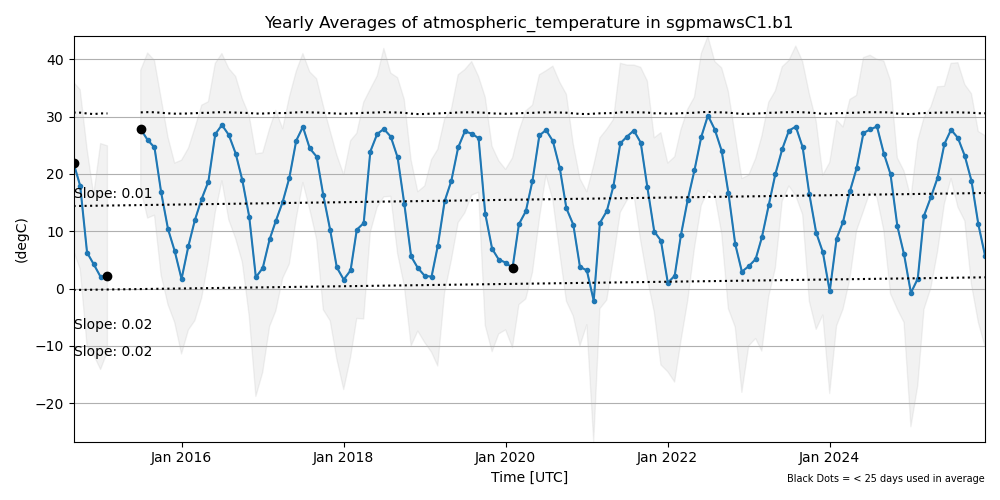
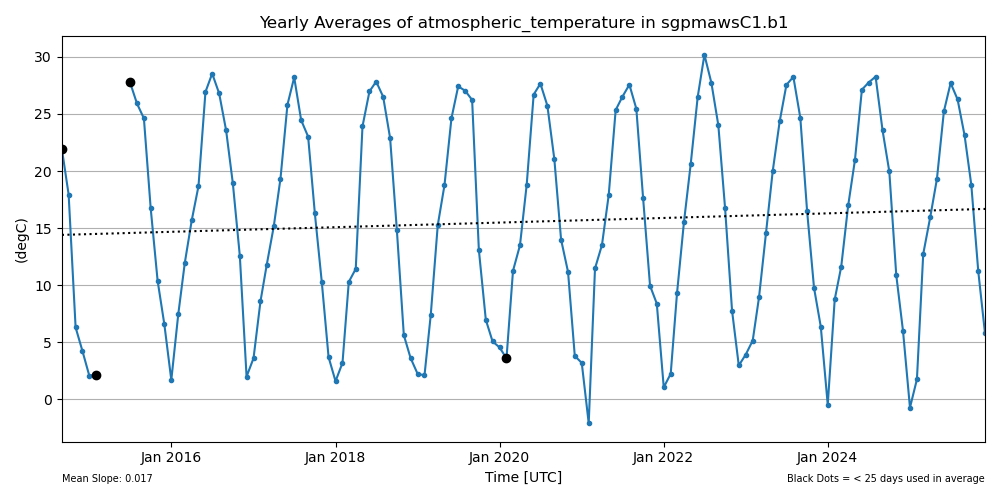
ENH: New plots

diff --git a/plot_climatology.py b/plot_climatology.py
@@ -20,9 +20,9 @@ import scipy
 ds_dict = {
     #'sgpceil10mC1.b1': {'variables': ['first_cbh'], 'averaging': ['YE', 'M'], 'units': ['m']},
     #'nsaceilC1.b1': {'variables': ['first_cbh'], 'averaging': ['YE', 'ME'], 'units': ['m']},
-    'nsametC1.b1': {'variables': ['temp_mean', 'rh_mean'], 'averaging': ['YE', 'ME'], 'units': ['degC', '%']},
-    'nsamawsC1.b1': {'variables': ['atmospheric_temperature', 'atmospheric_relative_humidity'], 'averaging': ['YE', 'ME'], 'units': ['degC', '%']},
-    'nsa60noaacrnX1.b1': {'variables': ['temperature'], 'averaging': ['YE', 'ME'], 'units': ['degC']},
+    #'nsametC1.b1': {'variables': ['temp_mean', 'rh_mean'], 'averaging': ['YE', 'ME'], 'units': ['degC', '%']},
+    #'nsamawsC1.b1': {'variables': ['atmospheric_temperature', 'atmospheric_relative_humidity'], 'averaging': ['YE', 'ME'], 'units': ['degC', '%']},
+    'nsa60noaacrnX1.b1': {'variables': ['temperature', 'precipitation'], 'averaging': ['YE', 'ME'], 'units': ['degC', 'mm']},
     'sgpmetE13.b1': {'variables': ['temp_mean', 'rh_mean'], 'averaging': ['YE', 'ME'], 'units': ['degC', '%']},
     'sgpmawsC1.b1': {'variables': ['atmospheric_temperature', 'atmospheric_relative_humidity'], 'averaging': ['YE', 'ME'], 'units': ['degC', '%']},
     'enametC1.b1': {'variables': ['temp_mean', 'rh_mean'], 'averaging': ['YE', 'ME'], 'units': ['degC', '%']},

diff --git a/arm_climatology.py b/arm_climatology.py
@@ -104,7 +104,7 @@ ds_dict = {
         #'sgpmetE40.b1': {'variables': ['temp_mean', 'rh_mean'], 'averaging': ['YE', 'M']},
         #'sgpmetE41.b1': {'variables': ['temp_mean', 'rh_mean'], 'averaging': ['YE', 'M']},
 
-        #'nsa60noaacrnX1.b1': {'variables': ['temperature', 'precipitation'], 'averaging': ['YE', 'ME']},
+        'nsa60noaacrnX1.b1': {'variables': ['temperature', 'precipitation'], 'averaging': ['YE', 'ME']},
         'nsametC1.b1': {'variables': ['temp_mean', 'rh_mean'], 'averaging': ['YE', 'ME']},
         #'nsamawsC1.b1': {'variables': ['atmospheric_temperature', 'atmospheric_relative_humidity'], 'averaging': ['YE', 'ME']},
         #'sgpmetE13.b1': {'variables': ['temp_mean', 'rh_mean', 'tbrg_precip_total'], 'averaging': ['YE', 'ME']},

diff --git a/README.md b/README.md
@@ -29,7 +29,7 @@ Figure 1. Monthly average temperatures from ARM MET (blue), ARM MAWS (green), an
 ![ARM and NOAA Yearly Average Temperatures](https://github.com/AdamTheisen/ARM-Climatologies/blob/main/images/nsametC1.b1_temp_mean_nsa60noaacrnX1.b1_temperature_YE.png)
 Figure 2. Yearlly average temperatures from ARM MET (blue), ARM MAWS (green) and NOAA (orange).
 
-In visualizing the ARM MET data by month (Fig. 3), the spread in the temperatures over the winter months, espcially in January to March is clearly larger compared with summer months.  Temperatures in February are the most volatile with a standard deviation of 4.4 ºC.  The monthly values can be found in Table 2 and indicate that July 2019 was the warmest (8.1 ºC) on record with 2023 being the second warmest (7.0 ºC).
+In visualizing the ARM MET data by month (Fig. 3), the spread in the temperatures over the winter months, espcially in January to March is clearly larger compared with summer months.  Temperatures in February are the most volatile with a standard deviation of 4.3 ºC.  The monthly values can be found in Table 2 and indicate that July 2019 was the warmest (8.1 ºC) on record with 2023 being the second warmest (7.0 ºC).
 
 ![ARM Monthly Average Temperatures](https://github.com/AdamTheisen/ARM-Climatologies/blob/main/images/nsametC1.b1_temp_mean_by_month.png)
 Figure 3. Monthly average NSA MET temperatures plotted by month and color-coded by year. Standard deviation for each month is indicated at the bottom of the plot.
